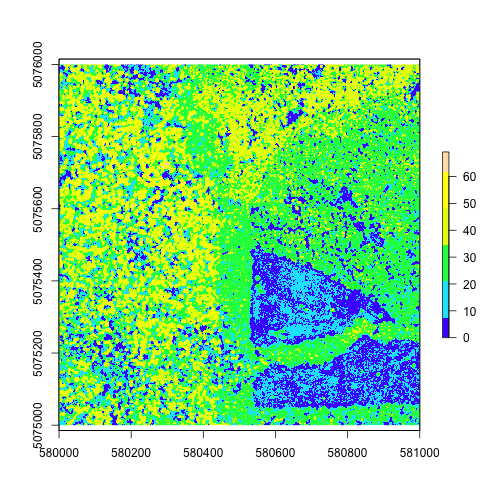
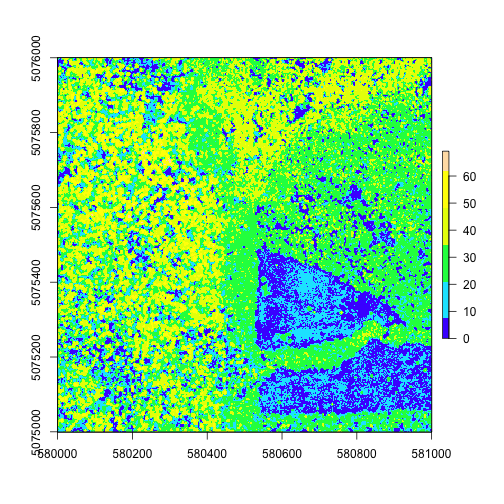
adjust plot display in download & explore tutorial

diff --git a/tutorials/R/NEON-general/neon-overview/NEON-download-explore/NEON-download-explore.html b/tutorials/R/NEON-general/neon-overview/NEON-download-explore/NEON-download-explore.html
@@ -523,10 +523,7 @@ avoid creating unnecessary duplicates of those columns.</p>
 <p>Using the merged data, now we can plot carbon isotope ratio 
 for each taxon.</p>
 
-<pre><code>par(mar=c(12,4,0.25,1))
-
-
-boxplot(analyteConcentration~scientificName, 
+<pre><code>boxplot(analyteConcentration~scientificName, 
         data=apct, subset=analyte==&quot;d13C&quot;, 
         xlab=NA, ylab=&quot;d13C&quot;, 
         las=2, cex.axis=0.7)

diff --git a/tutorials/R/NEON-general/neon-overview/NEON-download-explore/NEON-download-explore.md b/tutorials/R/NEON-general/neon-overview/NEON-download-explore/NEON-download-explore.md
@@ -15,6 +15,8 @@ tutorialSeries:
 urlTitle: download-explore-neon-data
 ---
 
+
+
 This tutorial covers downloading NEON data, using the Data Portal and 
 the neonUtilities R package, as well as basic instruction in beginning to 
 explore and work with the downloaded data, including guidance in 
@@ -371,7 +373,6 @@ Using the merged data, now we can plot carbon isotope ratio
 for each taxon.
 
 
-    par(mar=c(12,4,0.25,1))
 
 
     boxplot(analyteConcentration~scientificName, 
@@ -396,6 +397,8 @@ We'll use it to read in the tile we downloaded:
     chm <- raster("~/Downloads/DP3.30015.001/2017/FullSite/D16/2017_WREF_1/L3/DiscreteLidar/CanopyHeightModelGtif/NEON_D16_WREF_DP3_580000_5075000_CHM.tif")
 
 The `raster` package includes plotting functions:
+
+
 
 
     plot(chm, col=topo.colors(6))
